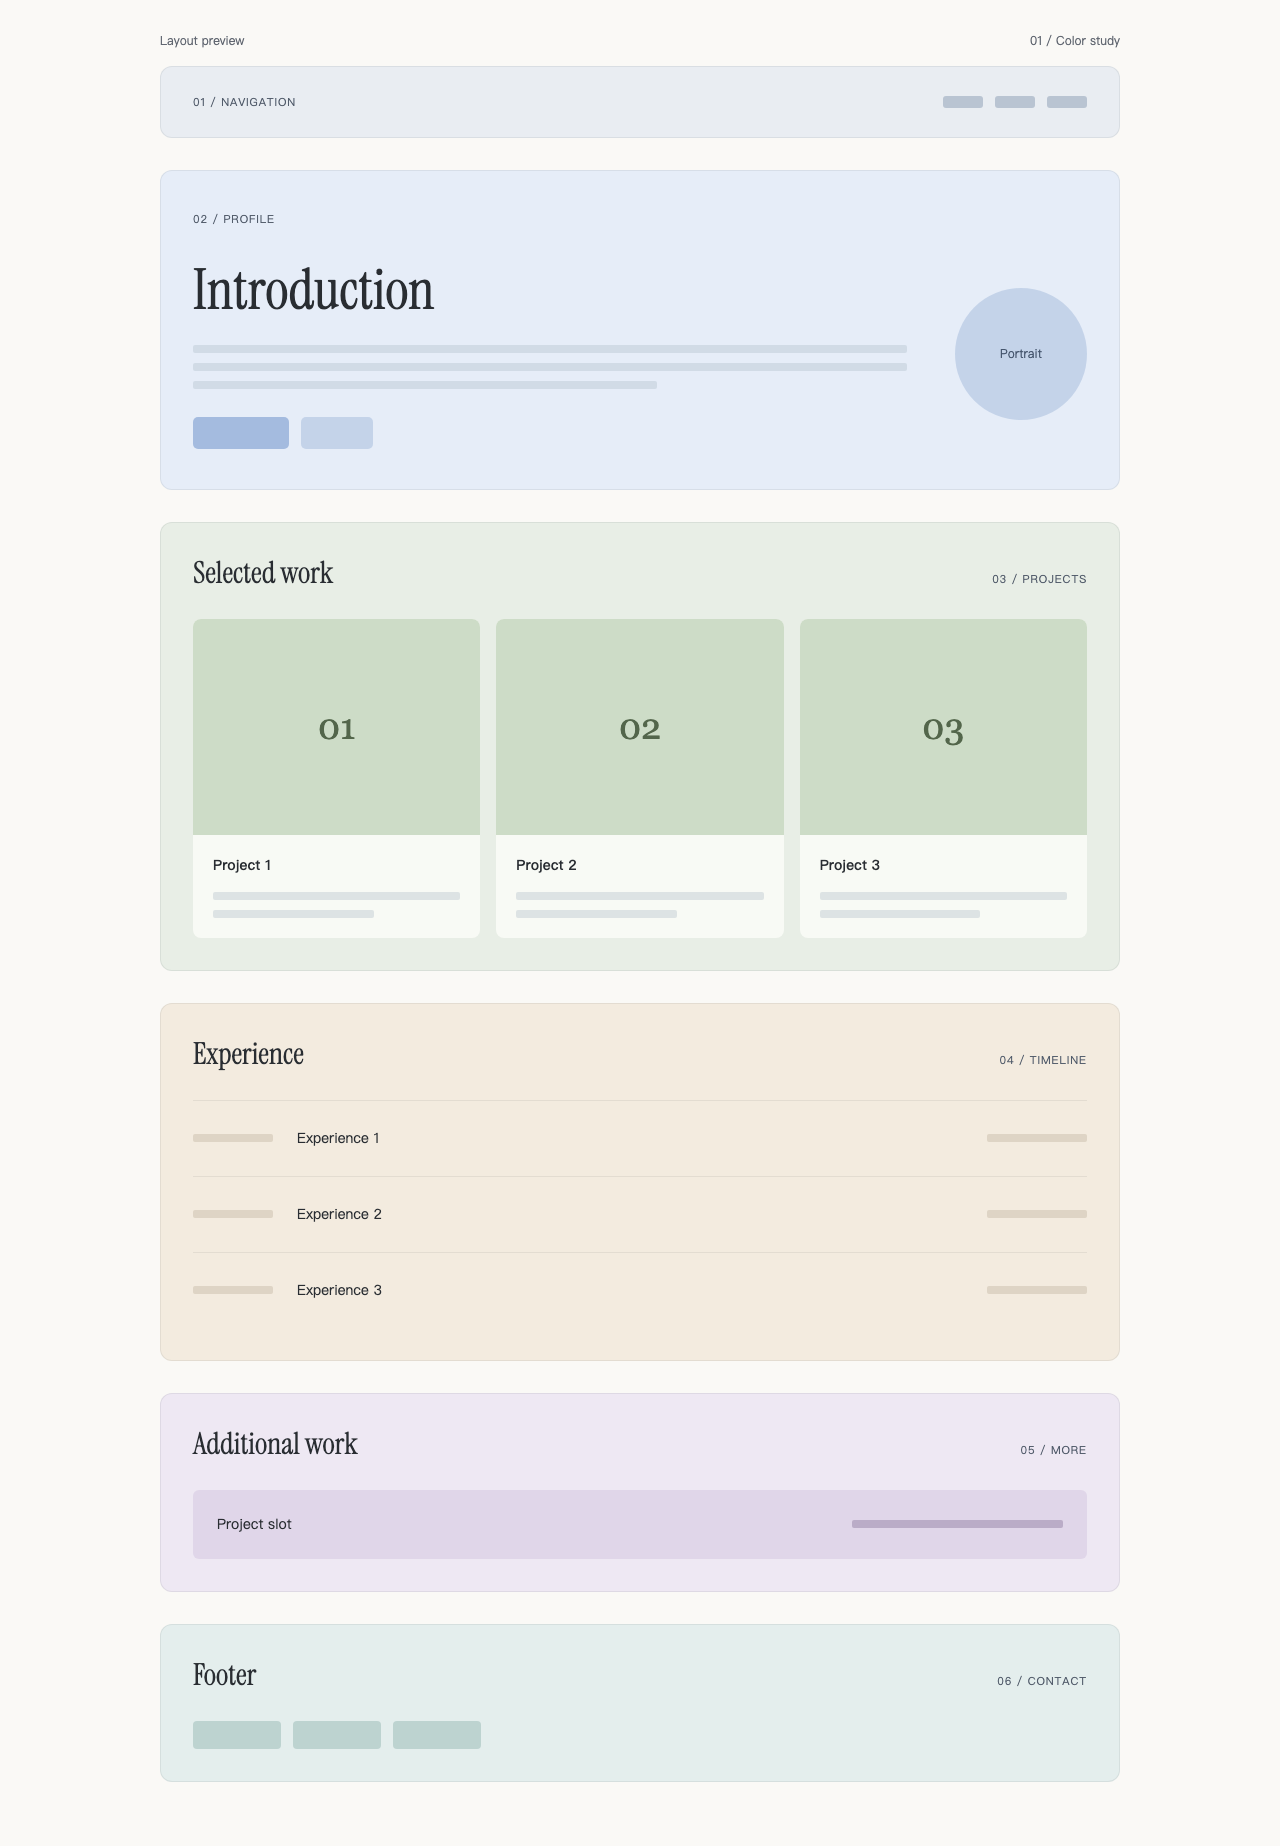
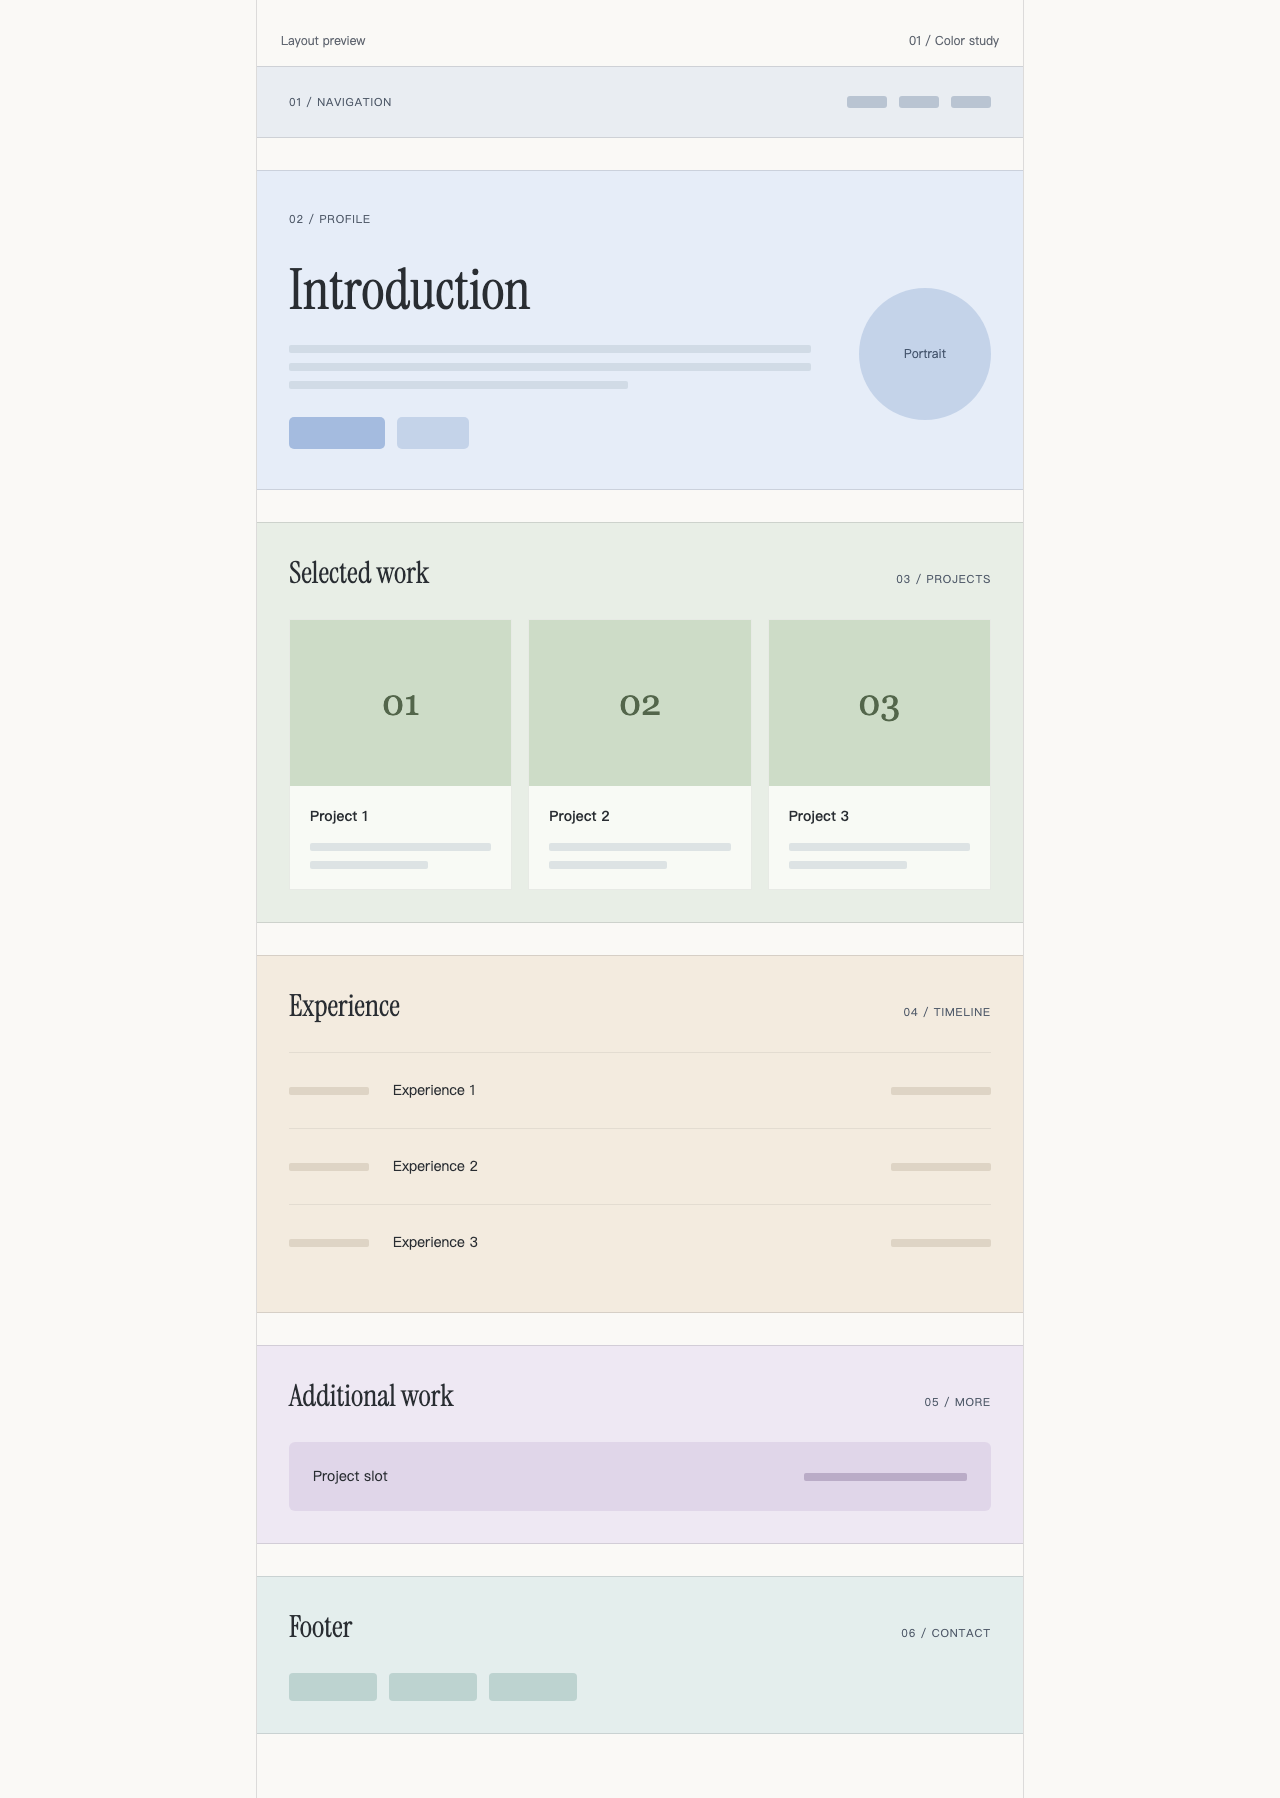
style: narrow layout and add continuous section rules

diff --git a/src/styles/global.css b/src/styles/global.css
@@ -12,19 +12,21 @@ body {
   margin: 0;
 }
 .page-shell {
-  width: min(100% - 48px, 960px);
-  margin: 32px auto 64px;
+  width: min(100% - 48px, 768px);
+  margin-inline: auto;
+  padding-block: 32px 64px;
+  border-inline: 1px solid #292d3224;
 }
 .preview-note {
   display: flex;
   justify-content: space-between;
   margin-bottom: 16px;
+  padding-inline: 24px;
   color: #616771;
   font-size: 12px;
 }
 .block {
-  border: 1px solid #292d3214;
-  border-radius: 12px;
+  border-block: 1px solid #292d3224;
   padding: 32px;
 }
 main {
@@ -142,7 +144,7 @@ h3 {
   gap: 16px;
 }
 article {
-  border-radius: 8px;
+  border: 1px solid #292d3214;
   overflow: hidden;
   background: #f8faf5;
 }
@@ -214,8 +216,10 @@ article {
 @media (max-width: 640px) {
   .page-shell {
     width: calc(100% - 32px);
-    margin-top: 20px;
-    margin-bottom: 32px;
+    padding-block: 20px 32px;
+  }
+  .preview-note {
+    padding-inline: 12px;
   }
   .block {
     padding: 24px;

diff --git a/docs/layout-review.md b/docs/layout-review.md
@@ -6,7 +6,9 @@ Keep the issue open and do not begin the next content ticket until approval is r
 
 ## Composition
 
-- A centered content column capped at 960px; 32px section gaps on desktop.
+- A centered content column capped at 768px; 32px section gaps on desktop.
+- Continuous vertical rules frame the column; straight horizontal rules define
+  each region, replacing the rounded outer cards.
 - Six distinguishable, softly colored regions: navigation, introduction,
   selected work, experience, additional work, and footer.
 - A generous introduction followed immediately by three equally weighted project
@@ -73,6 +75,10 @@ navigation region did not exist. After implementation, both tests passed.
   above are committed so the PR can be reviewed without a local server.
 
 ## Approval record
+
+Revision requested by Caven: introduce a line-based treatment and reconsider the
+960px column. The revised preview caps the column at 768px and adds continuous
+side rules and horizontal section dividers. This request is not final approval.
 
 Pending. Review the relative width, section spacing, introduction height,
 project-card proportions, and mobile reading order. Record Caven's decision
